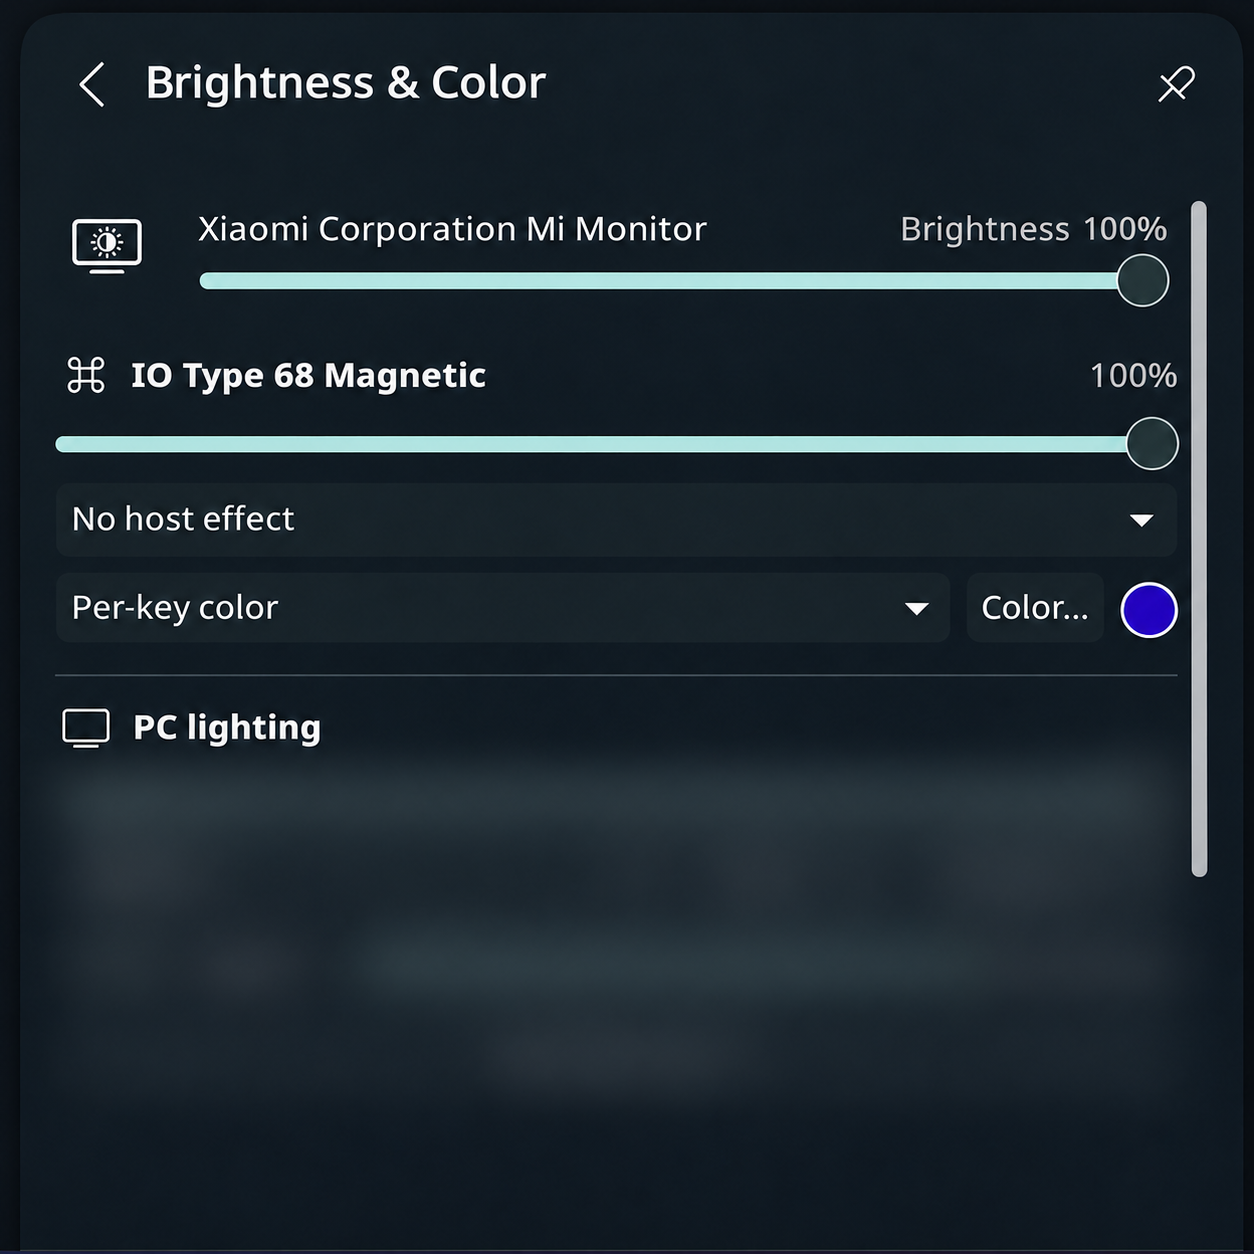
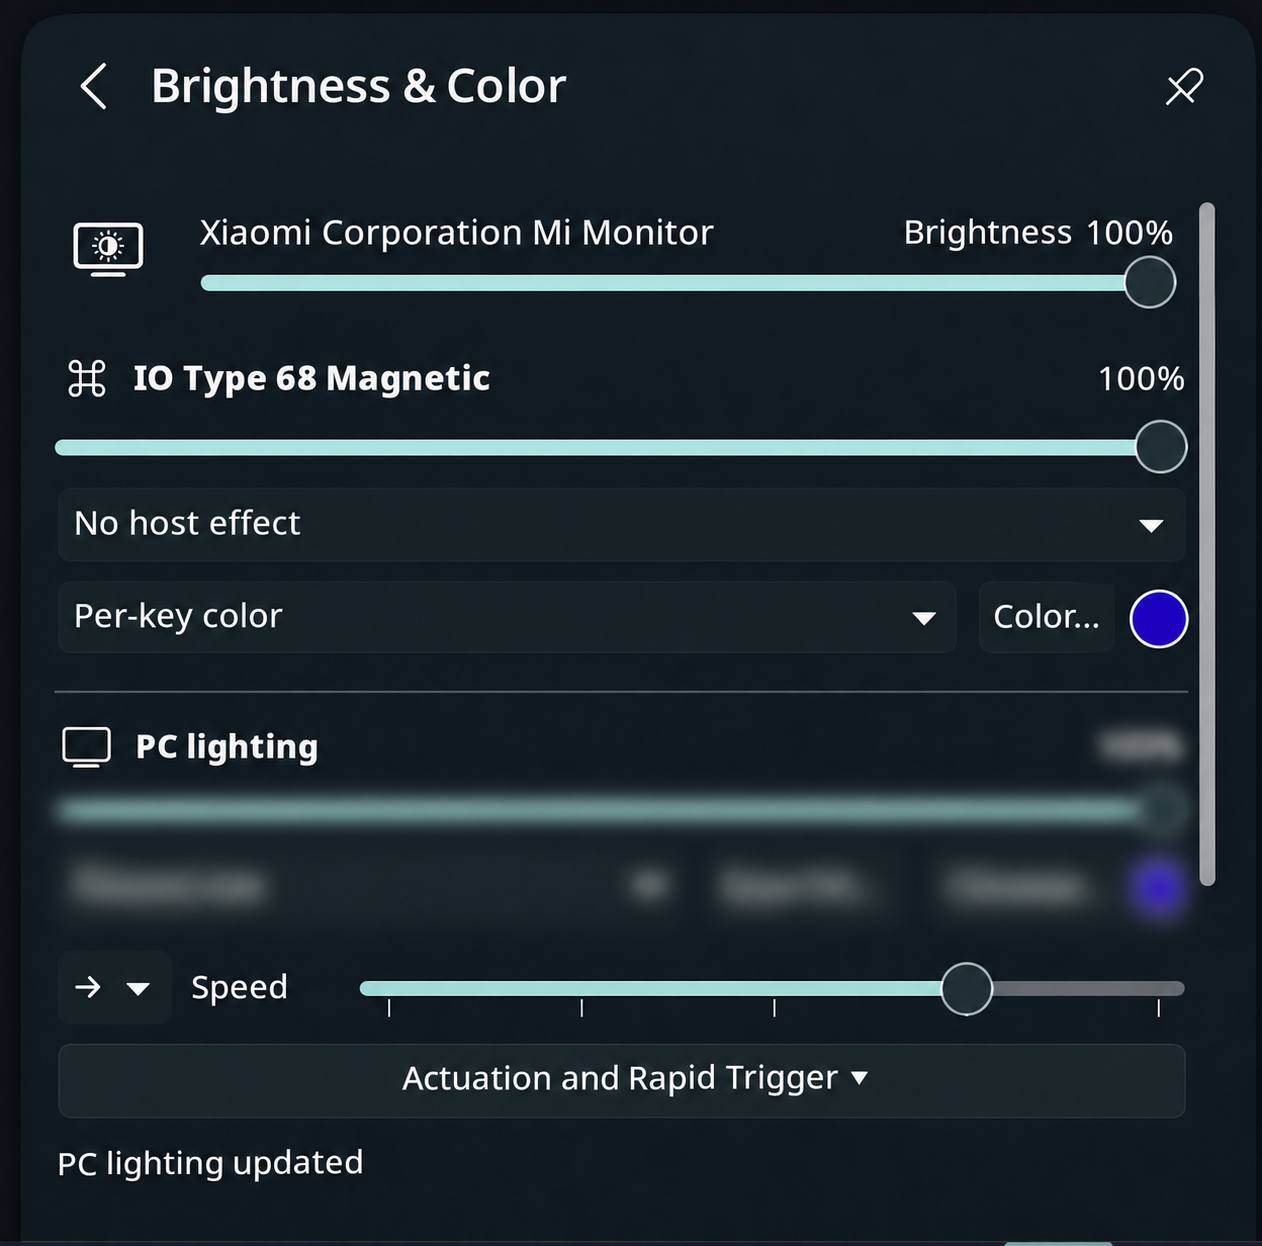
Clarify widget documentation and redact screenshot

diff --git a/tests/test_installer.py b/tests/test_installer.py
@@ -22,6 +22,10 @@ class InstallerTests(unittest.TestCase):
             home=Path(temp)
             installer.install(args(home),home)
             self.assertTrue((home/'etc/udev/rules.d/70-io-type68.rules').is_file())
+            widget = home/'.local/share/plasma/plasmoids/io.github.io-type68.keyboard'
+            self.assertEqual(json.loads((widget/'metadata.json').read_text())['X-Plasma-NotificationAreaCategory'], 'Hardware')
+            for name in ('main.qml', 'PopupDialog.qml', 'IOKeyboardControls.qml', 'NightLightItem.qml', 'DarkModeItem.qml'):
+                self.assertTrue((widget/'contents/ui'/name).is_file(), name)
             self.assertTrue(json.loads(installer.manifest_path(home).read_text())['files'])
             help_result=subprocess.run([str(home/'.local/bin/io-type68'),'--help'],capture_output=True,text=True)
             self.assertEqual(help_result.returncode,0,help_result.stderr)

diff --git a/docs/kde.md b/docs/kde.md
@@ -2,7 +2,7 @@
 
 `python3 install.py` installs **Brightness & Color — IO Type 68**, a combined Plasma widget with KDE display brightness, Night Light and theme controls plus the keyboard controls. Enable the widget in the system tray's entries or add it through KDE's “Add Widgets”. The original Brightness & Color entry can be disabled in system tray settings if duplicate icons are unwanted. The installer does not modify the panel layout.
 
-The interface uses English by default and Russian in a Russian locale. It uses KDE Plasma's private `org.kde.plasma.private.brightnesscontrolplugin` module and `org.kde.plasma.workspace.dbus`. The local implementation was exercised on Plasma 6.7.5; other versions may differ. Monitor brightness uses KDE's normal PowerDevil implementation. Hardware-specific PC lighting controls are not part of this project.
+Keyboard control labels use Russian in a Russian locale and English otherwise; some device error messages are in Russian. The widget uses KDE Plasma's private `org.kde.plasma.private.brightnesscontrolplugin` module and `org.kde.plasma.workspace.dbus`. The local implementation was exercised on Plasma 6.7.5; other versions may differ. Monitor brightness uses KDE's normal PowerDevil implementation. Hardware-specific PC lighting controls are not part of this project.
 
 The brightness and color interface is adapted from KDE PowerDevil 6.7.5, `applets/brightness` (https://invent.kde.org/plasma/powerdevil/-/tree/v6.7.5/applets/brightness). Original copyright and SPDX notices are retained in the copied QML files.
 
